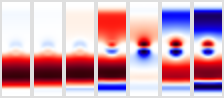
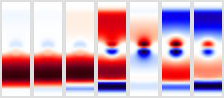
freq-domain debugging

Changed region(s): [[0.0, 0.0918, 1.0, 0.949], [0.7188, 0.0918, 1.0, 0.3673]]

diff --git a/meep_utils.py b/meep_utils.py
@@ -514,7 +514,11 @@ def annotate_frequency_axis(mark_freq, label_position_y=1, arrow_length=3, log_y
                 arrowprops  = arrowprops,       # comment out to disable arrow
                 )
 #}}}
-def plot_eps(to_plot, filename="epsilon.png", plot_conductivity=True, freq_range=(1e10, 1e18), mark_freq=[], draw_instability_area=None):#{{{
+def plot_eps(*args, **kwargs):#{{{
+    try: plot_eps_(*args, **kwargs)
+    except: meep.master_printf("Could not plot the material permittivity spectra, probably matplotlib bug. Skipping it...")
+    #}}}
+def plot_eps_(to_plot, filename="epsilon.png", plot_conductivity=True, freq_range=(1e10, 1e18), mark_freq=[], draw_instability_area=None):#{{{
     """ Plots complex permittivity of the materials to a PNG file
 
     Accepts list of materials

diff --git a/scatter.py b/scatter.py
@@ -63,7 +63,10 @@ if not sim_param['frequency_domain']:       ## time-domain computation
     for slice_ in slices: slice_.finalize()
     meep_utils.notify(model.simulation_name, run_time=timer.get_time())
 else:                                       ## frequency-domain computation
-    f.step()
+    #meep.use_Courant(0.5)
+    #while (f.time()/c < 100/sim_param['frequency']):     # timestepping cycle
+        #f.step()
+    meep.use_Courant(0.001) ## TODO test difference
     f.solve_cw(sim_param['MaxTol'], sim_param['MaxIter'], sim_param['BiCGStab']) 
     for monitor in (monitor1_Ex, monitor1_Hy, monitor2_Ex, monitor2_Hy): monitor.record(field=f)
     for slice_ in slices: slice_.finalize()
